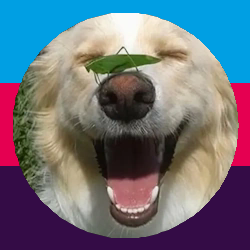
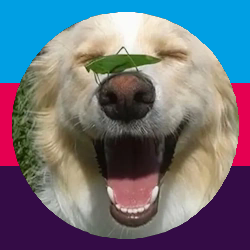
feat: thickness as a percentage

diff --git a/examples/wasm/src/lib/components/ui/select/select-trigger.svelte b/examples/wasm/src/lib/components/ui/select/select-trigger.svelte
@@ -1,29 +1,29 @@
 <script lang="ts">
-  import { Select as SelectPrimitive } from "bits-ui";
-  import ChevronDownIcon from "@lucide/svelte/icons/chevron-down";
-  import { cn, type WithoutChild } from "$lib/utils.js";
+	import { Select as SelectPrimitive } from "bits-ui";
+	import ChevronDownIcon from "@lucide/svelte/icons/chevron-down";
+	import { cn, type WithoutChild } from "$lib/utils.js";
 
-  let {
-    ref = $bindable(null),
-    class: className,
-    children,
-    size = "default",
-    ...restProps
-  }: WithoutChild<SelectPrimitive.TriggerProps> & {
-    size?: "sm" | "default";
-  } = $props();
+	let {
+		ref = $bindable(null),
+		class: className,
+		children,
+		size = "default",
+		...restProps
+	}: WithoutChild<SelectPrimitive.TriggerProps> & {
+		size?: "sm" | "default";
+	} = $props();
 </script>
 
 <SelectPrimitive.Trigger
-  bind:ref
-  data-slot="select-trigger"
-  data-size={size}
-  class={cn(
-    "border-input data-[placeholder]:text-muted-foreground [&_svg:not([class*='text-'])]:text-muted-foreground focus-visible:border-ring focus-visible:ring-ring/50 aria-invalid:ring-destructive/20 dark:aria-invalid:ring-destructive/40 aria-invalid:border-destructive dark:bg-input/30 dark:hover:bg-input/50 shadow-xs flex w-fit select-none items-center justify-between gap-2 whitespace-nowrap rounded-md border bg-transparent px-3 py-2 text-sm outline-none transition-all focus-visible:ring-[3px] disabled:cursor-not-allowed disabled:opacity-50 data-[size=default]:h-9 data-[size=sm]:h-8 *:data-[slot=select-value]:line-clamp-1 *:data-[slot=select-value]:flex *:data-[slot=select-value]:items-center *:data-[slot=select-value]:gap-2 [&_svg:not([class*='size-'])]:size-4 [&_svg]:pointer-events-none [&_svg]:shrink-0 hover:border-foreground",
-    className,
-  )}
-  {...restProps}
+	bind:ref
+	data-slot="select-trigger"
+	data-size={size}
+	class={cn(
+		"border-input data-[placeholder]:text-muted-foreground [&_svg:not([class*='text-'])]:text-muted-foreground focus-visible:border-ring focus-visible:ring-ring/50 aria-invalid:ring-destructive/20 dark:aria-invalid:ring-destructive/40 aria-invalid:border-destructive dark:bg-input/30 dark:hover:bg-input/50 shadow-xs flex w-fit select-none items-center justify-between gap-2 whitespace-nowrap rounded-md border bg-transparent px-3 py-2 text-sm outline-none transition-[color,box-shadow] focus-visible:ring-[3px] disabled:cursor-not-allowed disabled:opacity-50 data-[size=default]:h-9 data-[size=sm]:h-8 *:data-[slot=select-value]:line-clamp-1 *:data-[slot=select-value]:flex *:data-[slot=select-value]:items-center *:data-[slot=select-value]:gap-2 [&_svg:not([class*='size-'])]:size-4 [&_svg]:pointer-events-none [&_svg]:shrink-0",
+		className
+	)}
+	{...restProps}
 >
-  {@render children?.()}
-  <ChevronDownIcon class="size-4 opacity-50" />
+	{@render children?.()}
+	<ChevronDownIcon class="size-4 opacity-50" />
 </SelectPrimitive.Trigger>

diff --git a/examples/wasm/src/App.svelte b/examples/wasm/src/App.svelte
@@ -5,12 +5,11 @@
   import defaultImg from "../../input.webp";
 
   import { Flags, applyOverlay, applyRing } from "pride-overlay";
-    import Label from "$lib/components/ui/label/label.svelte";
-    import Input from "$lib/components/ui/input/input.svelte";
+  import Label from "$lib/components/ui/label/label.svelte";
 
   enum Effect {
     Overlay,
-    Ring
+    Ring,
   }
 
   // image elements
@@ -21,7 +20,7 @@
   let flag = $state(Flags.Transgender);
   let effect = $state(Effect.Overlay);
   let opacity = $state(0.5);
-  let thickness = $state(12);
+  let thickness = $state(0.1);
 
   // reusable offscreen canvas to avoid allocations on each conversion
   const _offscreen = document.createElement("canvas");
@@ -52,7 +51,12 @@
   /**
    * Apply the given effect and flag to the before image, updating the after image.
    */
-  async function applyEffect(effect: Effect, flag: Flags, opacity: number, thickness: number): Promise<void> {
+  async function applyEffect(
+    effect: Effect,
+    flag: Flags,
+    opacity: number,
+    thickness: number,
+  ): Promise<void> {
     // call pride-overlay to apply the effect
     const beforeData = await imageToUint8Array(beforeImg);
     let afterData: Uint8Array;
@@ -92,7 +96,6 @@
     applyEffect(effect, flag, opacity, thickness);
   });
 
-  
   $effect(() => {
     if (thickness < 0) thickness = 0;
   });
@@ -104,10 +107,23 @@
   <EnumSelect label="Flag" enum={Flags} bind:value={flag} />
   <EnumSelect label="Effect" enum={Effect} bind:value={effect} />
   <Label for="opacity" class="font-bold">Opacity</Label>
-  <Slider id="opacity" class="w-1/8" type="single" max={1} step={0.01} bind:value={opacity} />
+  <Slider
+    id="opacity"
+    class="w-1/8"
+    type="single"
+    max={1}
+    step={0.01}
+    bind:value={opacity}
+  />
   {#if effect === Effect.Ring}
-      <Label for="thickness" class="font-bold">Thickness</Label>
-      <Input id="thickness" class="w-1/16" type="number" min={0} bind:value={thickness} />
+    <Label for="thickness" class="font-bold">Thickness</Label>
+    <Slider
+      id="thickness"
+      class="w-1/8"
+      type="single"
+      max={1}
+      step={0.01}
+      bind:value={thickness} />
   {/if}
 </form>
 

diff --git a/src/effects/ring.rs b/src/effects/ring.rs
@@ -1,12 +1,12 @@
-use crate::{effects::create_flag_overlay, flags::Flag, prelude::*};
+use crate::{effects::overlay_flag, flags::Flag, prelude::*};
 use core::f32::consts::PI;
 use image::{GenericImageView, Rgba, RgbaImage, imageops::overlay};
 use imageproc::{drawing::draw_antialiased_polygon_mut, pixelops::interpolate, point::Point};
 #[cfg(target_arch = "wasm32")]
 use wasm_bindgen::prelude::*;
 
-const DEFAULT_OPACITY: Opacity = Opacity::OPAQUE;
-const DEFAULT_THICKNESS: u32 = 12;
+const DEFAULT_OPACITY: f32 = 1.;
+const DEFAULT_THICKNESS: f32 = 0.1;
 
 /// Effect that draws a ring around an image using pride [Flag] colors.
 #[derive(bon::Builder)]
@@ -17,61 +17,76 @@ const DEFAULT_THICKNESS: u32 = 12;
     })
 )]
 pub struct Ring {
-    #[builder(default = DEFAULT_OPACITY)]
-    opacity: Opacity,
-    #[builder(default = DEFAULT_THICKNESS)]
-    thickness: u32,
+    /// Opacity of the ring, from 0.0 (transparent) to 1.0 (opaque).
+    #[builder(default = DEFAULT_OPACITY, with = |percent: f32| percent.clamp(0., 1.))]
+    opacity: f32,
+    /// Thickness of the ring as a percentage of the image width, from 0.0 to 1.0.
+    ///
+    /// You probably want this to be fairly small!
+    #[builder(default = DEFAULT_THICKNESS, with = |percent: f32| percent.clamp(0., 1.))]
+    thickness: f32,
 }
 
 #[cfg(target_arch = "wasm32")]
 #[wasm_bindgen(js_name = "applyRing")]
-pub fn apply_ring(image: &[u8], flag: Flags, opacity: Option<f32>, thickness: Option<i32>) -> Vec<u8> {
+pub fn apply_ring(
+    image: &[u8],
+    flag: Flags,
+    opacity: Option<f32>,
+    thickness: Option<f32>,
+) -> Vec<u8> {
     let effect = Ring::builder()
-        .opacity(opacity.map(Opacity::new).unwrap_or(DEFAULT_OPACITY))
-        .thickness(thickness.map(|t| t.max(0) as u32).unwrap_or(DEFAULT_THICKNESS))
+        .opacity(opacity.unwrap_or(DEFAULT_OPACITY))
+        .thickness(thickness.unwrap_or(DEFAULT_THICKNESS))
         .build();
     super::apply(image, flag, effect).unwrap()
 }
 
 impl Effect for Ring {
     fn apply(&self, image: &mut image::DynamicImage, flag: Flag) {
-        let (width, height) = image.dimensions();
-        let ring_flag = Flag::builder("", flag.colours).build();
-        let mut ring_overlay = create_flag_overlay(&ring_flag, width, height, &self.opacity);
+        if self.opacity == 0. {
+            // no-op for zero opacity
+        } else if self.thickness == 1. {
+            // full thickness is just an overlay
+            let effect = Overlay::builder().opacity(self.opacity).build();
+            effect.apply(image, flag)
+        } else {
+            let (width, height) = image.dimensions();
+            let ring_flag = Flag::builder("", flag.colours).build();
+            let mut ring_overlay = overlay_flag(&ring_flag, width, height, self.opacity);
 
-        let center = ((width / 2) as i32, (height / 2) as i32);
-        let radius = (width / 2).saturating_sub(self.thickness) as i32;
+            let center = ((width / 2) as i32, (height / 2) as i32);
+            let radius =
+                (width / 2).saturating_sub(((width / 2) as f32 * self.thickness) as u32) as i32;
 
-        draw_circle(&mut ring_overlay, center, radius, Rgba([0, 0, 0, 0]));
-        overlay(image, &ring_overlay, 0, 0);
+            draw_circle(&mut ring_overlay, center, radius, Rgba([0, 0, 0, 0]));
+            overlay(image, &ring_overlay, 0, 0);
+        }
     }
 }
 
 /// Draws a smooth circle on the image using anti-aliasing.
 fn draw_circle(image: &mut RgbaImage, center: (i32, i32), radius: i32, color: Rgba<u8>) {
     const MIN_SIDES: f32 = 32.;
-    const MAX_SIZES: f32 = 256.;
+    const MAX_SIDES: f32 = 256.;
     const PIXELS_PER_SIDE: f32 = 4.;
 
     // determine the number of sides to use for a the polygon
     // that approximates the circle.
     // circumference = 2 * pi * radius
     let circumference = 2.0 * PI * radius as f32;
-    let sides = (circumference / PIXELS_PER_SIDE).clamp(MIN_SIDES, MAX_SIZES) as usize;
+    let sides = (circumference / PIXELS_PER_SIDE).clamp(MIN_SIDES, MAX_SIDES) as usize;
 
     // compute the points of the polygon
-    let mut points = Vec::with_capacity(sides);
-    let mut angle = 0.;
-
-    for _ in 0..sides {
-        // angle_{i + 1} = angle_{i} + (2 * pi / sides)
-        angle += 2.0 * PI / (sides as f32);
-
-        // calculate the x and y coordinates of the point
-        let (x, y) = center;
-        let (dx, dy) = (radius as f32 * angle.cos(), radius as f32 * angle.sin());
-        points.push(Point::new(x + dx as i32, y + dy as i32));
-    }
+    let points: Vec<Point<i32>> = (0..sides)
+        .map(|i| {
+            let theta = 2.0 * PI * (i as f32) / (sides as f32);
+            let (x, y) = center;
+            let dx = radius as f32 * theta.cos();
+            let dy = radius as f32 * theta.sin();
+            Point::new(x + dx.round() as i32, y + dy.round() as i32)
+        })
+        .collect();
 
     draw_antialiased_polygon_mut(image, &points, color, interpolate);
 }

diff --git a/src/effects/overlay.rs b/src/effects/overlay.rs
@@ -10,7 +10,7 @@ use resvg::{
 #[cfg(target_arch = "wasm32")]
 use wasm_bindgen::prelude::*;
 
-const DEFAULT_OPACITY: Opacity = Opacity::HALF;
+const DEFAULT_OPACITY: f32 = 0.5;
 
 /// Effect that overlays a pride [Flag] onto an image.
 #[derive(bon::Builder)]
@@ -21,34 +21,39 @@ const DEFAULT_OPACITY: Opacity = Opacity::HALF;
     })
 )]
 pub struct Overlay {
-    #[builder(default = DEFAULT_OPACITY)]
-    opacity: Opacity,
+    /// Opacity of the overlay, from 0.0 (transparent) to 1.0 (opaque).
+    #[builder(default = DEFAULT_OPACITY, with = |percent: f32| percent.clamp(0., 1.))]
+    opacity: f32,
 }
 
 #[cfg(target_arch = "wasm32")]
 #[wasm_bindgen(js_name = "applyOverlay")]
 pub fn apply_overlay(image: &[u8], flag: Flags, opacity: Option<f32>) -> Vec<u8> {
     let effect = Overlay::builder()
-        .opacity(opacity.map(Opacity::new).unwrap_or(DEFAULT_OPACITY))
+        .opacity(opacity.unwrap_or(DEFAULT_OPACITY))
         .build();
     super::apply(image, flag, effect).unwrap()
 }
 
 impl Effect for Overlay {
     fn apply(&self, image: &mut image::DynamicImage, flag: Flag) {
-        let (width, height) = image.dimensions();
-        let flag_overlay = create_flag_overlay(&flag, width, height, &self.opacity);
-        overlay(image, &flag_overlay, 0, 0);
+        if self.opacity == 0. {
+            // no-op for zero opacity
+        } else {
+            let (width, height) = image.dimensions();
+            let flag_overlay = overlay_flag(&flag, width, height, self.opacity);
+            overlay(image, &flag_overlay, 0, 0);
+        }
     }
 }
 
-pub(crate) fn create_flag_overlay<'a>(
+pub(crate) fn overlay_flag<'a>(
     flag: &Flag<'a>,
     width: u32,
     height: u32,
-    opacity: &Opacity,
+    opacity: f32,
 ) -> RgbaImage {
-    let alpha = opacity.get_raw();
+    let alpha = (opacity * u8::MAX as f32) as u8;
 
     match flag.svg {
         Some(svg) => overlay_svg(svg, width, height, alpha),

diff --git a/examples/custom.rs b/examples/custom.rs
@@ -2,20 +2,21 @@ use image::ImageResult;
 use pride_overlay::{flags::Flag, prelude::*};
 
 /// https://catppuccin.com/palette
-const CATPPUCCIN: Flag = Flag::builder("Catppuccin", &[
-    Colour::hex(0xED8796), // red
-    Colour::hex(0xF5A97F), // peach
-    Colour::hex(0xF5A97F), // peach
-    Colour::hex(0xEED49F), // yellow
-    Colour::hex(0xA6DA95), // green
-    Colour::hex(0x7DC4E4), // sapphire
-    Colour::hex(0xC6A0F6), // lavender
-]).build();
+const CATPPUCCIN: Flag = Flag::builder(
+    "Catppuccin",
+    &[
+        Colour::hex(0xED8796), // red
+        Colour::hex(0xF5A97F), // peach
+        Colour::hex(0xF5A97F), // peach
+        Colour::hex(0xEED49F), // yellow
+        Colour::hex(0xA6DA95), // green
+        Colour::hex(0x7DC4E4), // sapphire
+        Colour::hex(0xC6A0F6), // lavender
+    ],
+)
+.build();
 
-const EFFECT: Ring = Ring::builder()
-    .opacity(Opacity::new(0.8))
-    .thickness(20)
-    .build();
+const EFFECT: Ring = Ring::builder().opacity(0.8).build();
 
 fn main() -> ImageResult<()> {
     let mut image = image::open("examples/input.webp")?;

diff --git a/src/flags/mod.rs b/src/flags/mod.rs
@@ -53,9 +53,9 @@ macro_rules! gen_flags {
                 }
             }
 
-            impl Into<Flag<'static>> for Flags {
-                fn into(self) -> Flag<'static> {
-                    match self {
+            impl From<Flags> for Flag<'static> {
+                fn from(flag: Flags) -> Self {
+                    match flag {
                         $(
                             Flags::$flag => [<$flag:upper>],
                         )*

diff --git a/src/lib.rs b/src/lib.rs
@@ -29,13 +29,10 @@ pub mod effects;
 /// Built-in pride flags and related types.
 pub mod flags;
 
-mod opacity;
-pub use opacity::Opacity;
-
 /// Commonly used types and traits.
 pub mod prelude {
     pub use crate::{
-        Colour, Opacity,
+        Colour,
         effects::{Effect, Overlay, Ring},
         flags::{Flags, SvgAsset, SvgScaleMode},
     };

diff --git a/src/effects/mod.rs b/src/effects/mod.rs
@@ -14,7 +14,7 @@ pub trait Effect {
 
 /// Apply an effect to an image.
 #[cfg(target_arch = "wasm32")]
-pub fn apply<'a, E: Effect>(
+pub fn apply<E: Effect>(
     data: &[u8],
     flag: Flags,
     effect: E,
